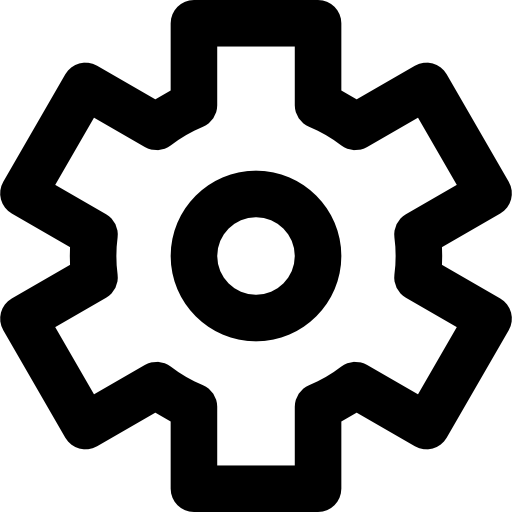
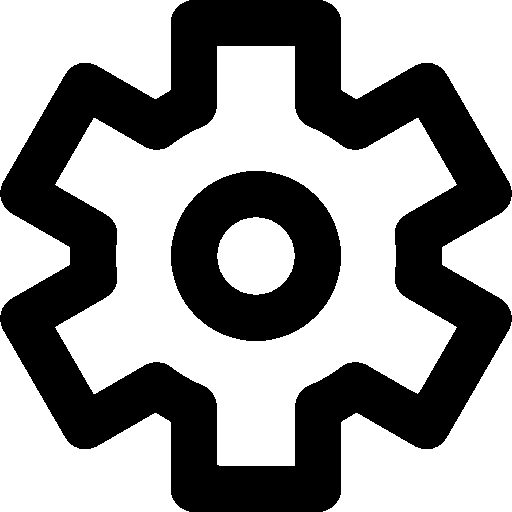
Fix #1 and change appearance of some images

diff --git a/Brainf1ck IDE/ProjectPage.xaml b/Brainf1ck IDE/ProjectPage.xaml
@@ -47,15 +47,15 @@
                 </ScrollView>
             </Frame>
             <!-- Settings button -->
-            <Frame Grid.Row="3" Padding="0" Margin="4">
+            <Frame Grid.Row="3" Padding="0" Margin="4" >
                 <Frame.GestureRecognizers>
                     <TapGestureRecognizer Command="{Binding OpenSettingsViewCommand}" 
                                           Tapped="SettingsFrame_Tapped" />
                 </Frame.GestureRecognizers>
-                <HorizontalStackLayout Spacing="12"
+                <HorizontalStackLayout Spacing="10"
                     HorizontalOptions="Center" VerticalOptions="Center">
-                    <Image Source="Resources/Images/settings_button.png" Margin="10" MaximumWidthRequest="50"/>
-                    <Label Text="Settings" FontSize="Small" />
+                    <Image Source="settings_button.png" Margin="10" />
+                    <Label Text="Settings" FontSize="Small" VerticalOptions="Center"/>
                 </HorizontalStackLayout>
             </Frame>
         </Grid>
@@ -78,8 +78,8 @@
                     </Frame.GestureRecognizers>
                     <HorizontalStackLayout Spacing="12"
                         HorizontalOptions="Center" VerticalOptions="Center">
-                        <Image Source="Resources/Images/paste_snippet_button.png" Margin="16" MaximumWidthRequest="50"/>
-                        <Label Margin="16" Text="Paste snippet" FontSize="Micro" />
+                        <Image Source="paste_snippet_button.png" Margin="16" />
+                        <Label Margin="16" Text="Paste snippet" FontSize="Micro" VerticalOptions="Center" />
                     </HorizontalStackLayout>
                 </Frame>
                 <!-- Visualize button -->
@@ -90,8 +90,8 @@
                     </Frame.GestureRecognizers>
                     <HorizontalStackLayout Spacing="12"
                         HorizontalOptions="Center" VerticalOptions="Center">
-                        <Image Source="Resources/Images/visualize_button.png" Margin="16" MaximumWidthRequest="50"/>
-                        <Label Margin="16" Text="Visualize" FontSize="Micro" />
+                        <Image Source="visualize_button.png" Margin="16" />
+                        <Label Margin="16" Text="Visualize" FontSize="Micro" VerticalOptions="Center" />
                     </HorizontalStackLayout>
                 </Frame>
                 <!-- Run button -->
@@ -102,8 +102,8 @@
                     </Frame.GestureRecognizers>
                     <HorizontalStackLayout Spacing="12"
                         HorizontalOptions="Center" VerticalOptions="Center">
-                        <Image Source="Resources/Images/run_button.png" Margin="16" MaximumWidthRequest="50"/>
-                        <Label Margin="16" Text="Run" FontSize="Micro" />
+                        <Image Source="run_button.png" Margin="16" />
+                        <Label Margin="16" Text="Run" FontSize="Micro" VerticalOptions="Center" />
                     </HorizontalStackLayout>
                 </Frame>
                 <!-- Optimize button -->
@@ -114,9 +114,9 @@
                     </Frame.GestureRecognizers>
                     <HorizontalStackLayout Spacing="12"
                         HorizontalOptions="Center" VerticalOptions="Center">
-                        <Image Source="Resources/Images/optimize_button.png" WidthRequest="50" HeightRequest="50"
+                        <Image Source="optimize_button.png" 
                                Aspect="AspectFill" />
-                        <Label Margin="16" Text="Optimize" FontSize="Micro" />
+                        <Label Margin="16" Text="Optimize" FontSize="Micro" VerticalOptions="Center" />
                     </HorizontalStackLayout>
                 </Frame>
             </FlexLayout>

diff --git a/Brainf1ck IDE/MainPage.xaml b/Brainf1ck IDE/MainPage.xaml
@@ -41,7 +41,7 @@
                                                         AncestorType={x:Type viewmodel:MainPageViewModel}},
                                                         Path=RemoveProjectCommand}"
                                                      CommandParameter="{Binding .}"
-                                                     Source="Resources/Images/trash_button.png" 
+                                                     Source="remove_button.png"  Background="Transparent"
                                                      Aspect="AspectFit"/>
                                     </Grid>
                                 </Frame>
@@ -63,7 +63,7 @@
                     <Grid HorizontalOptions="Fill" VerticalOptions="Fill"
                                           ColumnDefinitions="2*,5*">
                         <Image Margin="20" Aspect="AspectFit"
-                               Source="Resources/Images/create_project.png"/>
+                               Source="create_project_button.png"/>
                         <VerticalStackLayout Grid.Column="1" Padding="20" Spacing="10">
                             <Label Text="Create new project" FontSize="Small" />
                             <Label Text="Change or leave default settings and get started" FontSize="Micro" />
@@ -78,7 +78,7 @@
                     <Grid HorizontalOptions="Fill" VerticalOptions="Fill"
                                           ColumnDefinitions="2*,5*">
                         <Image Margin="20" Aspect="AspectFit"
-                               Source="Resources/Images/open_project.png"/>
+                               Source="open_project_button.png"/>
                         <VerticalStackLayout Grid.Column="1" Padding="20" Spacing="10">
                             <Label Text="Open existing project" FontSize="Small" />
                             <Label Text="Locate a .bfide file to open existing Brainfuck IDE project" FontSize="Micro" />
